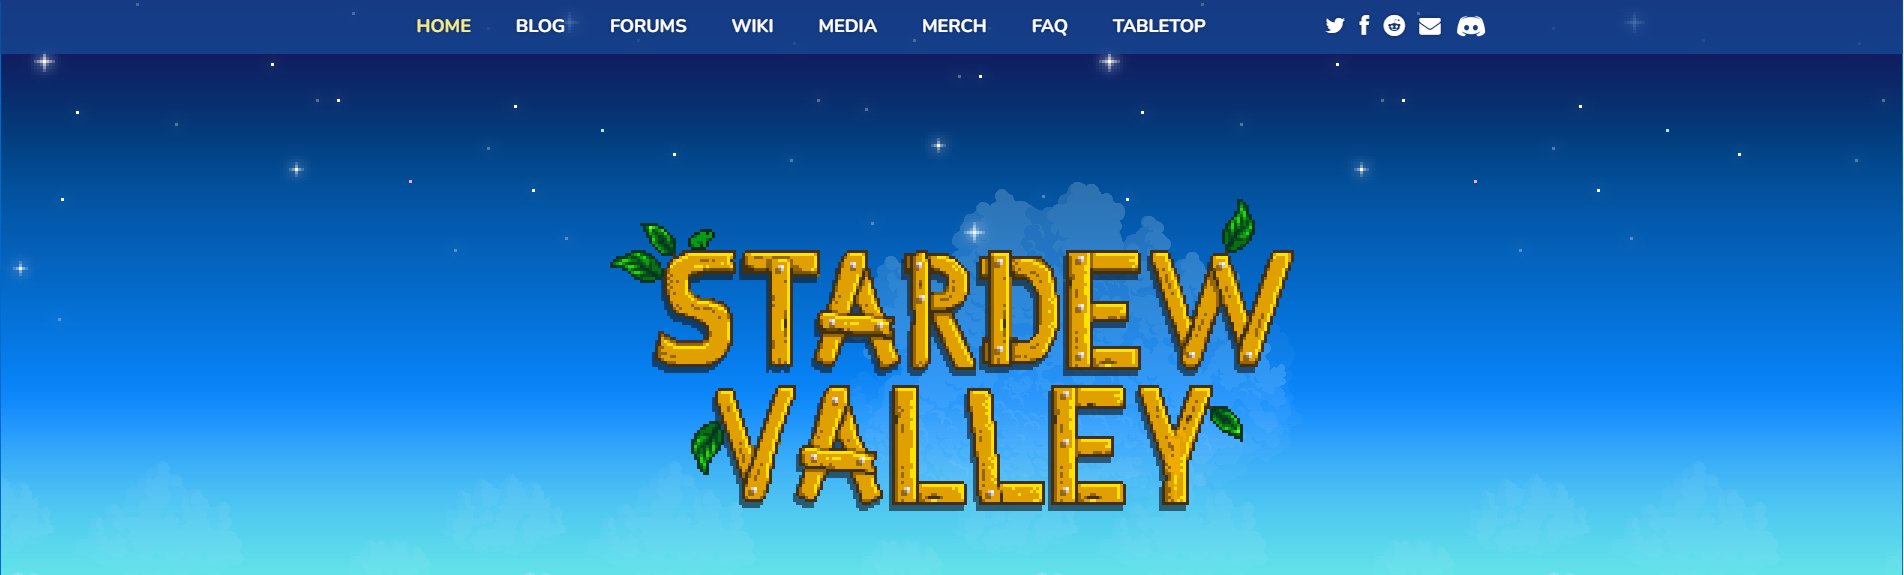
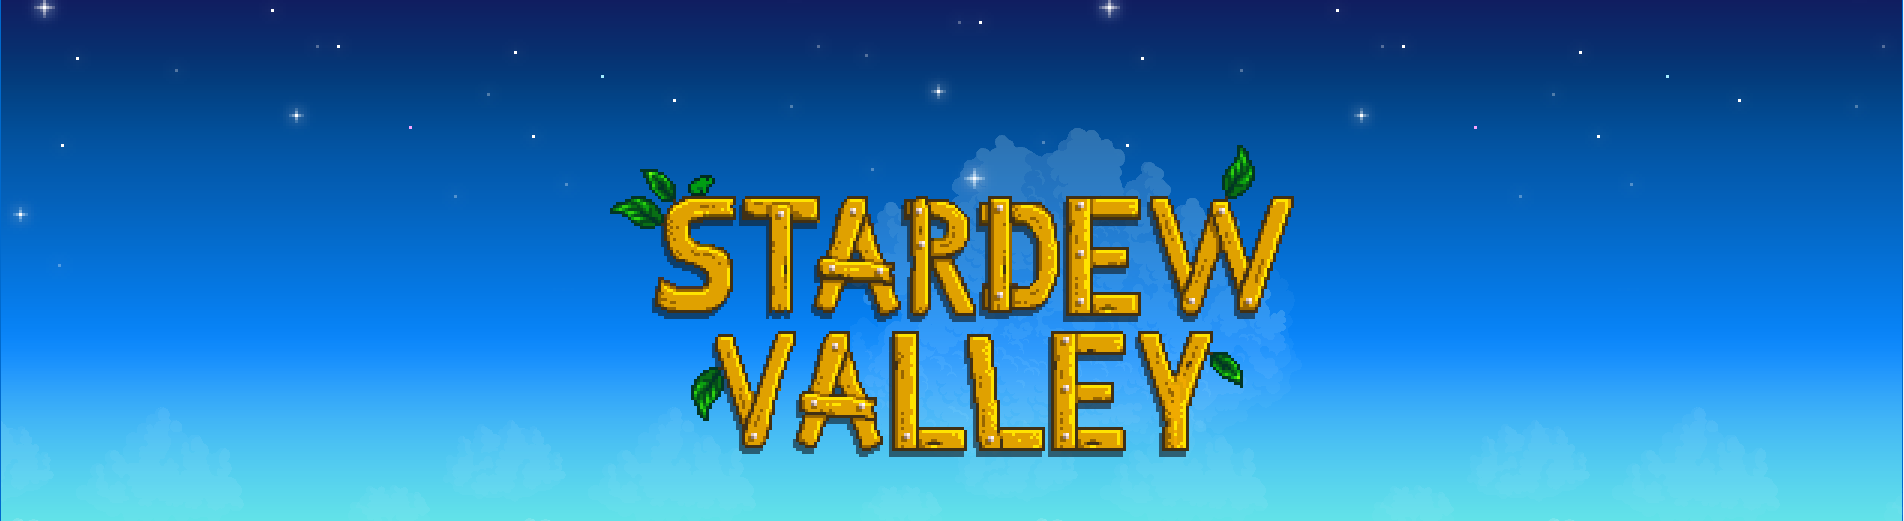
ss

diff --git a/stardew/index.html b/stardew/index.html
@@ -12,18 +12,22 @@
     <div>
       <header class="ibx top">
         <h1>메뉴바</h1>
-        <div class="cbx col-2"></div>
-        <div class="cbx col-6"></div>
-        <div class="cbx col-4"></div>
+          <div class="mtxt">HOME</div>
+          <div class="mtxt">BLOG</div>
+          <div class="mtxt">FORUMS</div>
+          <div class="mtxt">WIKI</div>
+          <div class="mtxt">MEDIA</div>
+          <div class="mtxt">MERCH</div>
+          <div class="mtxt">FAQ</div>
+          <div class="mtxt">TABLETOP</div>
       </header>
     </div>
     <div>
       <section class="ct1 ibx cont">
         <!-- <h2>메인화면</h2> -->
-        <div class="cbx1 col-12"></div>
-        <div class="cbx2 col-12">
-            <div class="fmi"></div>
-        </div>
+        <div class="cbx col-12"></div>
+        <div class="cbx col-12"></div>
+        <div class="cbx col-12"></div>
       </section>
     </div>
     <div>

diff --git a/stardew/css/layout.css b/stardew/css/layout.css
@@ -82,7 +82,7 @@ h6 {
   /* 크기가 넘치면 아래로 내려감 */
   flex-wrap: wrap;
 
-  max-width: 1400px;
+  /* max-width: 1400px; */
   margin: 0 auto;
   outline: 1px dashed gray;
   /* 임시높이 */
@@ -111,16 +111,20 @@ h6 {
 
 /*******************메인화면 ********************/
 
-.ct1 .cbx1 {
+.ct1 :first-child {
   background: url(../img/main.PNG) no-repeat center/cover;
+  height: 575px;
+}
+.ct1 :nth-child(2) {
+  background: linear-gradient( rgb(98,226,232), rgb(106,238,228));
+  height: 100px;
+}
+.ct1 :nth-child(3) {
+  background: url(../img/mainfarm.PNG) no-repeat center/cover;
+  height: 608px;
 }
 
-.ct1 .cbx2 {
-  min-height: 300hv;
-}
-
-.ct1 > .cbx2 > .fmi {
-  position: absolute;
-  bottom: 0;
-  background: url(../img/mainfarm.PNG) no-repeat center;
+.mtxt{
+  font-size: 20px;
+  color: white;
 }
